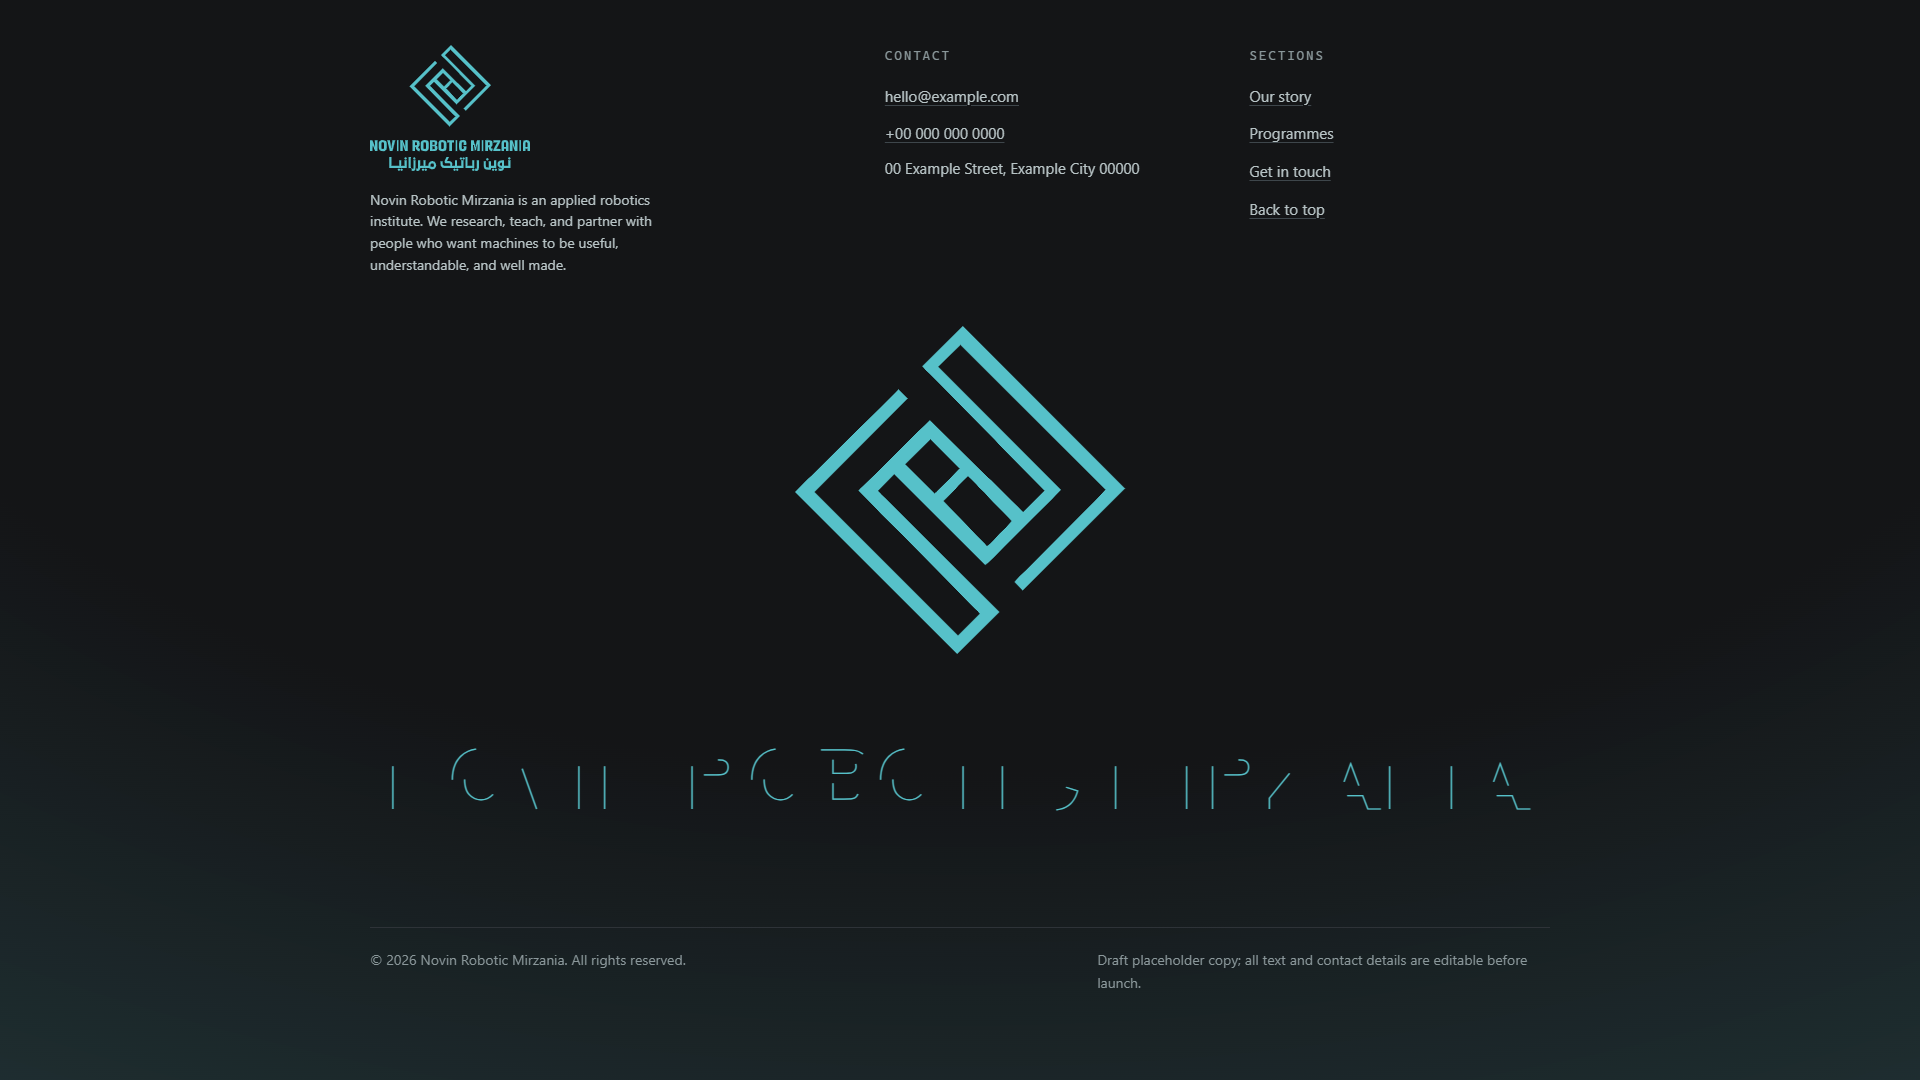
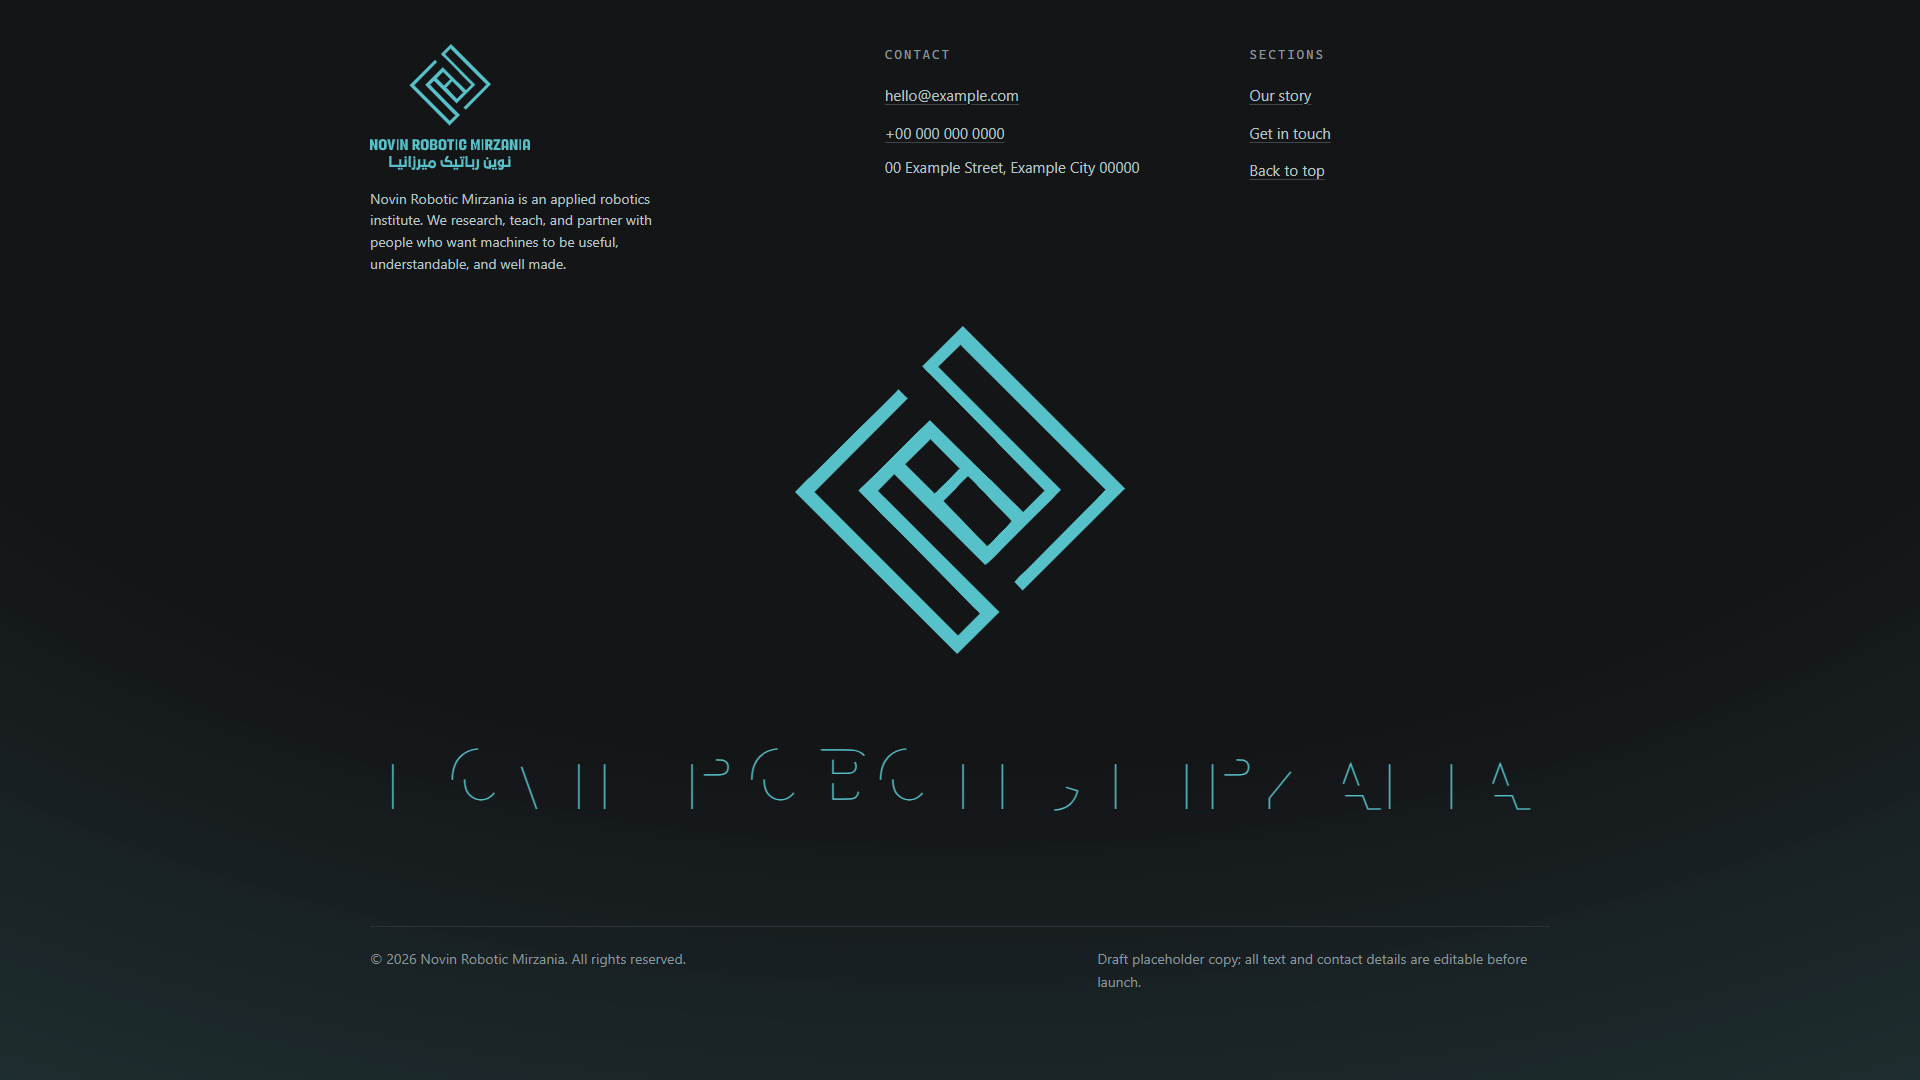
docs: QA evidence for v1.3.6 (revision fafbb3a; programmes section removed)

diff --git a/qa/qa-report.md b/qa/qa-report.md
@@ -1,6 +1,6 @@
-# QA report — logo-sequence site (v1.3.3 round)
+# QA report — logo-sequence site (v1.3.6 round)
 
-- Revision: `fe38c43` · generated 2026-09-30T13:27:49.851Z
+- Revision: `fafbb3a` · generated 2026-09-30T14:22:03.091Z
 - Environment: win32 x64 · Node v22.22.0 · puppeteer-core 25.12.0
 - Chrome: Chrome/154.0.8037.58 · Edge: Edg/154.0.4258.37
 - Method: puppeteer-core only; local CSP-mirror server; deterministic states via `?qa=`;
@@ -12,9 +12,8 @@
 | id | check | status | value | threshold | evidence |
 |----|-------|--------|-------|-----------|----------|
 | a | nav absence (9 cells) | PASS | headers 0; no fixed/sticky outside hero; nav only in footer | zero nav outside footer | evidence/a/nav-sweep.json |
-| a | old placeholder elements removed from DOM | PASS | {"copy":0,"indicator":0,"hint":0,"rmMark":0} body=["A.skip-link","NOSCRIPT","SECTION#story.hero","SECTION#programmes.gallery","FOOTER#footer.footer"] | copy/indicator/hint/rm-mark counts all 0; body = skip-link + noscript + hero + programmes + footer | evidence/a/nav-sweep.json |
-| a | programmes: 4–7 photo slots present, ordered hero→programmes→footer | PASS | {"cards":6,"ordered":true} | gallery between hero and footer; 4–7 cards each with img/alt/title/text | evidence/a/nav-sweep.json |
-| a | source audit: no dead placeholders; gallery assets present | PASS | {"deadRefs":0,"galleryRefs":6,"slots":6,"missing":0,"imgFiles":6} | no hero__copy/hint/indicator/rm-mark refs; every gallery slot points at an existing file | evidence/a/removal-audit.txt |
+| a | old placeholder elements removed from DOM (incl. the programmes section) | PASS | {"copy":0,"indicator":0,"hint":0,"rmMark":0} galleryGone=0 body=["A.skip-link","NOSCRIPT","SECTION#story.hero","FOOTER#footer.footer"] | copy/indicator/hint/rm-mark/gallery counts all 0; body = skip-link + noscript + hero + footer | evidence/a/nav-sweep.json |
+| a | source audit: no dead placeholders; programmes assets removed | PASS | {"deadRefs":0,"imgFiles":0} | no hero__copy/hint/indicator/rm-mark/gallery refs in shipped files; assets/img empty | evidence/a/removal-audit.txt |
 | b | intro: big wordmark centered on dark gray, unclipped | PASS | [{"vp":"1280x800","dx":0,"dy":0,"frameW":979.7,"expectedW":979.7,"sizeOk":true,"notClipped":true,"bg":"rgb(23, 25, 27)","spin":0,"markOpacity":0,"wordOpacity":1,"sideOp":0},{"vp":"1440x900","dx":0,"dy":0,"frameW":1102.2,"expectedW":1102.2,"sizeOk":true,"notClipped":true,"bg":"rgb(23, 25, 27)","spin":0,"markOpacity":0," | hero size == min(92vw, 96vh*1.2757, 1600px) ±3; centered ±8px; fully in viewport; side copy hidden; bg rgb(23,25,27) | evidence/a/intro-1440x900.png<br>evidence/a/intro-audit.json |
 | c | motion trace (60 steps) | PASS | {"mapErr":0,"monoSpin":true,"spinEnd":360,"maxSpinStep":34.1,"maxPosStep":435.2,"orderOk":true,"opacityOk":true,"cEndTx":-719.22,"dEndTy":354.87} | clockwise monotonic to 360±0.5; spin in place; side-copy hold with centred mark; left travel on the middle line; enlarged state at exact 45-degree pose; dock travel right+down; swap opacity sum=1 | evidence/b/motion-trace.json |
 | c | settle / no-oscillation / idle-stability | PASS | {"settleOk":true,"p":0.41667,"mapP":0.41667,"reversals":0,"idleDelta":0} | p==mapping after stop (0.002); <=2 reversals; idle delta 0 | — |
@@ -24,16 +23,16 @@
 | c | mid-sweep: the big mark crosses the middle, fully on screen | PASS | {"mcx":722.1,"spin":315} | at p=0.77 the big mark sits between the edges, centred vertically | evidence/b/sweep-1440x900.png |
 | c | side copy: text beside the small symbol, then gone before the growth | PASS | [{"vp":"1440x900","centered":true,"visible":true,"noGhost":true,"noOverlap":true,"mcx":718.9,"mcy":450,"rMark":162.9,"ok":true,"goneAt07":[0,0]},{"vp":"390x844","centered":true,"visible":true,"noGhost":true,"noOverlap":true,"mcx":194.7,"mcy":422,"rMark":50.7,"ok":true,"goneAt07":[0,0]}] | both blocks fully visible + clear of the mark at p=0.5; centred mark; wordmark fully swapped (no ghost); hidden by p=0.7 | evidence/b/sidecopy-audit.json<br>evidence/b/sidetext-1440x900.png |
 | d | hero end: mark docked upright just above the bottom edge | PASS | [{"vp":"1440x900","center":[721.1,715],"expY":715,"spin":360,"overflow":0,"ok":true},{"vp":"834x1112","center":[418.1,927],"expY":927,"spin":360,"overflow":0,"ok":true},{"vp":"390x844","center":[195.7,726.5],"expY":726.5,"spin":360,"overflow":0,"ok":true}] | centre == (vw/2, vh−dockR−20) ±6; spin 360±1.5; fully visible; no overflow | evidence/b/herodock-audit.json |
-| d | landing: centred in the footer landing area, clear of columns and signature | PASS | [{"vp":"1280x800","center":[640,278.3],"bandCy":278.3,"bandCx":640,"frac":1,"size":330,"dockD":330,"gapAbove":25,"gapBelow":33,"centered":true,"sizeOk":true,"upright":true,"overflow":0,"ok":true},{"vp":"1440x900","center":[720,360.8],"bandCy":360.8,"bandCx":720,"frac":1,"size":330,"dockD":330,"gapAbove":25,"gapBelow":3 | centre == (viewport/2, landing-area centre) ±6/±8px; visible fraction >= 0.9; clear of the columns and the signature (>=6px both); size == configured ±6; no rotation; overflow 0 | evidence/d/dock-audit.json<br>evidence/b/dock-1440x900.png |
-| d | landing stability: scroll + resize | PASS | {"yMax":4556,"yAfter":4556,"drift":0,"resizeOk":true,"resizeBackOk":true} | no scroll past max; drift 0; stays centred after resize ±8px | evidence/d/stability.json |
+| d | landing: centred in the footer landing area, clear of columns and signature | PASS | [{"vp":"1280x800","center":[640,278.1],"bandCy":278.1,"bandCx":640,"frac":1,"size":330,"dockD":330,"gapAbove":25,"gapBelow":33,"centered":true,"sizeOk":true,"upright":true,"overflow":0,"ok":true},{"vp":"1440x900","center":[720,360.1],"bandCy":360.1,"bandCx":720,"frac":1,"size":330,"dockD":330,"gapAbove":25,"gapBelow":3 | centre == (viewport/2, landing-area centre) ±6/±8px; visible fraction >= 0.9; clear of the columns and the signature (>=6px both); size == configured ±6; no rotation; overflow 0 | evidence/d/dock-audit.json<br>evidence/b/dock-1440x900.png |
+| d | landing stability: scroll + resize | PASS | {"yMax":3192,"yAfter":3192,"drift":0,"resizeOk":true,"resizeBackOk":true} | no scroll past max; drift 0; stays centred after resize ±8px | evidence/d/stability.json |
 | e | enlarged mark rendered from vector (SVG) source | PASS | {"markSrc":"http://localhost:8123/assets/logo/logo-mark.svg","dpr":2} | mark displayed from .svg (scale-free) | evidence/e/mark-zoom-2x.png |
 | f | single content source (no duplicates) | PASS | duplicates outside content.js: 0 | 0 occurrences of sample strings in shipped files | evidence/f/content-audit.txt |
-| f | footer: links land + contact/legal intact | PASS | {"landings":[{"label":"Our story","href":"#story","top":0},{"label":"Programmes","href":"#programmes","top":0},{"label":"Get in touch","href":"#contact","top":-0.3},{"label":"Back to top","href":"#top","top":0}],"contactCheck":{"emailText":true,"emailHref":true,"phoneHref":true,"address":true,"legal":true}} | 4 links land within viewport; mailto/tel formats; texts == content | evidence/f/footer-links.json<br>evidence/f/footer-1440x900.png |
+| f | footer: links land + contact/legal intact | PASS | {"landings":[{"label":"Our story","href":"#story","top":0},{"label":"Get in touch","href":"#contact","top":0},{"label":"Back to top","href":"#top","top":0}],"contactCheck":{"emailText":true,"emailHref":true,"phoneHref":true,"address":true,"legal":true}} | 3 links land within viewport; mailto/tel formats; texts == content | evidence/f/footer-links.json<br>evidence/f/footer-1440x900.png |
 | f | footer signature: draw-in completes + hover reveal reacts | PASS | {"layers":3,"content":"NOVIN ROBOTIC MIRZANIA","drawn":true,"dashAfter":0,"hoverClass":true,"echoOp":0.7,"maskCx":"20.04%"} | 3 text layers with the brand name; stroke draw-in finishes (dashoffset 0); hover shows the echo (0.7) and moves the reveal mask | evidence/f/signature-audit.json<br>evidence/f/footer-signature-1440x900.png |
-| g | responsive: no overflow at max size and landing; gallery columns adapt | PASS | [{"vp":"360x740","ok":true,"overflow@0.84":0,"overflow@1":0,"galleryCols":1},{"vp":"768x1024","ok":true,"overflow@0.84":0,"overflow@1":0,"galleryCols":2},{"vp":"1280x800","ok":true,"overflow@0.84":0,"overflow@1":0,"galleryCols":3},{"vp":"1440x900","ok":true,"overflow@0.84":0,"overflow@1":0,"galleryCols":3},{"vp":"1920x | scrollWidth overflow <= 1px in both states; no horizontal scrollbar; gallery grid 3/2/1 columns by width | evidence/g/responsive.json |
-| h | reduced motion: static logo + signature fully rendered, gallery static | PASS | {"top":{"x":203.34375,"y":36,"r":1236.65625,"b":846},"end":{"x":555,"y":196.7890625,"r":885,"b":524.8046875},"bandCy":360.8,"frameComputed":"none","side":"none","sigDraw":"0px","gallery":{"count":6,"op":1,"imgOK":true,"inView":true}} | no transforms; no side copy; wordmark fully in viewport; landing centred in the landing area; signature drawn statically (no dash offset); gallery cards visible without reveal effects | evidence/h/reduced-1440-full.png |
-| i | perf: zero errors, local-only | PASS | {"consoleErrors":0,"pageErrors":0,"failed":0,"hosts":{"localhost:8123":11},"resources":11,"transferBytes":71175} | 0 errors; localhost-only; no failed requests | evidence/i/perf.json |
-| i | CLS + frame cadence (headless) | INFO | {"cls":0,"frameMedianMs":6.9,"frameP95Ms":7.1} | informational only | — |
+| g | responsive: no overflow at max size and landing | PASS | [{"vp":"360x740","ok":true,"overflow@0.84":0,"overflow@1":0},{"vp":"768x1024","ok":true,"overflow@0.84":0,"overflow@1":0},{"vp":"1280x800","ok":true,"overflow@0.84":0,"overflow@1":0},{"vp":"1440x900","ok":true,"overflow@0.84":0,"overflow@1":0},{"vp":"1920x1080","ok":true,"overflow@0.84":0,"overflow@1":0},{"vp":"2560x10 | scrollWidth overflow <= 1px in both states; no horizontal scrollbar | evidence/g/responsive.json |
+| h | reduced motion: static logo + signature fully rendered | PASS | {"top":{"x":203.34375,"y":36,"r":1236.65625,"b":846},"end":{"x":555,"y":196.1328125,"r":885,"b":524.1484375},"bandCy":360.1,"frameComputed":"none","side":"none","sigDraw":"0px"} | no transforms; no side copy; wordmark fully in viewport; landing centred in the landing area; signature drawn statically (no dash offset) | evidence/h/reduced-1440-full.png |
+| i | perf: zero errors, local-only | PASS | {"consoleErrors":0,"pageErrors":0,"failed":0,"hosts":{"localhost:8123":5},"resources":5,"transferBytes":57751} | 0 errors; localhost-only; no failed requests | evidence/i/perf.json |
+| i | CLS + frame cadence (headless) | INFO | {"cls":0,"frameMedianMs":6.9,"frameP95Ms":7} | informational only | — |
 | j | resize mid-sequence | PASS | {"p":[0.55,0.61875],"spin":192.1219889322917,"expSpin":192.1} | state re-renders consistently after resize | — |
 | j | fling (wheel bursts) | PASS | {"p":1,"mapP":1} | end state == mapping ±0.002 | — |
 | j | reload mid-sequence | PASS | {"scrollY":1080,"p":0.5,"mapP":0.5} | deterministic restore | — |
@@ -42,13 +41,13 @@
 
 ## Summary
 
-- PASS: 27
+- PASS: 26
 - FAIL: 0
 - INFO: 1
 - OBSERVED: 0
 - NOT PERFORMED: 0
 
-## Evidence files (116)
+## Evidence files (142)
 
 - `qa/evidence/a/intro-1280x800.png`
 - `qa/evidence/a/intro-1440x900.png`
@@ -80,6 +79,12 @@
 - `qa/evidence/b/pin-0-1440x900.png`
 - `qa/evidence/b/pin-0-390x844.png`
 - `qa/evidence/b/pin-0-834x1112.png`
+- `qa/evidence/b/pin-0.06-1440x900.png`
+- `qa/evidence/b/pin-0.06-390x844.png`
+- `qa/evidence/b/pin-0.06-834x1112.png`
+- `qa/evidence/b/pin-0.19-1440x900.png`
+- `qa/evidence/b/pin-0.19-390x844.png`
+- `qa/evidence/b/pin-0.19-834x1112.png`
 - `qa/evidence/b/pin-0.25-1440x900.png`
 - `qa/evidence/b/pin-0.25-390x844.png`
 - `qa/evidence/b/pin-0.25-834x1112.png`
@@ -89,9 +94,18 @@
 - `qa/evidence/b/pin-0.5-1440x900.png`
 - `qa/evidence/b/pin-0.5-390x844.png`
 - `qa/evidence/b/pin-0.5-834x1112.png`
+- `qa/evidence/b/pin-0.56-1440x900.png`
+- `qa/evidence/b/pin-0.56-390x844.png`
+- `qa/evidence/b/pin-0.56-834x1112.png`
+- `qa/evidence/b/pin-0.66-1440x900.png`
+- `qa/evidence/b/pin-0.66-390x844.png`
+- `qa/evidence/b/pin-0.66-834x1112.png`
 - `qa/evidence/b/pin-0.7-1440x900.png`
 - `qa/evidence/b/pin-0.7-390x844.png`
 - `qa/evidence/b/pin-0.7-834x1112.png`
+- `qa/evidence/b/pin-0.78-1440x900.png`
+- `qa/evidence/b/pin-0.78-390x844.png`
+- `qa/evidence/b/pin-0.78-834x1112.png`
 - `qa/evidence/b/pin-0.8-1440x900.png`
 - `qa/evidence/b/pin-0.8-390x844.png`
 - `qa/evidence/b/pin-0.8-834x1112.png`
@@ -101,6 +115,9 @@
 - `qa/evidence/b/pin-0.86-1440x900.png`
 - `qa/evidence/b/pin-0.86-390x844.png`
 - `qa/evidence/b/pin-0.86-834x1112.png`
+- `qa/evidence/b/pin-0.92-1440x900.png`
+- `qa/evidence/b/pin-0.92-390x844.png`
+- `qa/evidence/b/pin-0.92-834x1112.png`
 - `qa/evidence/b/pin-0.93-1440x900.png`
 - `qa/evidence/b/pin-0.93-390x844.png`
 - `qa/evidence/b/pin-0.93-834x1112.png`
@@ -154,11 +171,16 @@
 - `qa/evidence/rollback/dist-v1.3.0.zip`
 - `qa/evidence/rollback/dist-v1.3.1.zip`
 - `qa/evidence/rollback/dist-v1.3.2.zip`
+- `qa/evidence/rollback/dist-v1.3.3.zip`
+- `qa/evidence/rollback/dist-v1.3.4.zip`
+- `qa/evidence/rollback/dist-v1.3.5.zip`
 - `qa/evidence/rollback/tag-show-v1.1.0.txt`
 - `qa/evidence/rollback/tag-show-v1.2.0.txt`
 - `qa/evidence/rollback/tag-show-v1.3.0.txt`
 - `qa/evidence/rollback/tag-show-v1.3.1.txt`
 - `qa/evidence/rollback/tag-show-v1.3.2.txt`
+- `qa/evidence/rollback/tag-show-v1.3.3.txt`
+- `qa/evidence/rollback/tag-show-v1.3.4.txt`
 - `qa/evidence/rollback/tag-show.txt`
 - `qa/evidence/rollback/v1.0.0-intro.png`
 - `qa/evidence/rollback/v1.1.0-intro.png`
@@ -166,3 +188,6 @@
 - `qa/evidence/rollback/v1.3.0-intro.png`
 - `qa/evidence/rollback/v1.3.1-bigstate.png`
 - `qa/evidence/rollback/v1.3.2-footer.png`
+- `qa/evidence/rollback/v1.3.3-bigright.png`
+- `qa/evidence/rollback/v1.3.4-intro.png`
+- `qa/evidence/rollback/v1.3.5-intro.png`

diff --git a/qa/qa-log.md b/qa/qa-log.md
@@ -1,10 +1,10 @@
-# QA log â€” environment, commands, honesty notes (v1.3.3)
+# QA log — environment, commands, honesty notes (v1.3.6)
 
 ## Environment
 
-- OS: win32 x64 Â· Node: v22.22.0 Â· puppeteer-core: 25.12.0
-- Chrome: Chrome/154.0.8037.58 Â· Edge: Edg/154.0.4258.37
-- Revision: fe38c43 Â· 2026-09-30T13:27:49.851Z
+- OS: win32 x64 · Node: v22.22.0 · puppeteer-core: 25.12.0
+- Chrome: Chrome/154.0.8037.58 · Edge: Edg/154.0.4258.37
+- Revision: fafbb3a · 2026-09-30T14:22:03.091Z
 
 ## How to re-run
 
@@ -18,13 +18,13 @@ node qa/shot.mjs chrome <url> <w> <h> out.png [qa]
 
 | Browser | Status | Notes |
 |---------|--------|-------|
-| Chrome | EXECUTED â€” full suite | via puppeteer-core |
-| Edge | EXECUTED â€” subset | same Chromium engine as Chrome â€” not independent coverage |
-| Firefox | NOT PERFORMED â€” not installed | inspection-based notes only |
-| Safari / iOS Safari | NOT PERFORMED â€” cannot run on Windows | inspection-based notes only |
-| Android Chrome (device) | NOT PERFORMED â€” no device | viewport emulation only |
+| Chrome | EXECUTED — full suite | via puppeteer-core |
+| Edge | EXECUTED — subset | same Chromium engine as Chrome — not independent coverage |
+| Firefox | NOT PERFORMED — not installed | inspection-based notes only |
+| Safari / iOS Safari | NOT PERFORMED — cannot run on Windows | inspection-based notes only |
+| Android Chrome (device) | NOT PERFORMED — no device | viewport emulation only |
 
-Reduced-motion checks used DevTools emulation (`emulateMediaFeatures`) â€” labeled, not a real OS test.
+Reduced-motion checks used DevTools emulation (`emulateMediaFeatures`) — labeled, not a real OS test.
 
 ## Code-inspection risk notes (NOT test results)
 
@@ -35,10 +35,6 @@ Reduced-motion checks used DevTools emulation (`emulateMediaFeatures`) â€” 
 - scroll-driven animations API: absent (safe).
 - overflow: clip: used (Safari 16+; hidden fallback present on the sticky).
 
-## Revert (Ctrl+Z) — executed evidence (v1.3.5)
-- User request: undo the v1.3.4 reorder. The tree was restored to the v1.3.3 content via git checkout v1.3.3 -- . and committed.
-- Revert commit: 0b899ba; annotated tag v1.3.5 -> 0b899bafbf950c10df126e5b102b2386f23c15bc.
-- The reverted tree equals the v1.3.3 released tree (which passed its own full QA: 27 PASS / 0 FAIL at revision fe38c43).
-- Worktree smoke: clean worktree of v1.3.5 served on port 8081; screenshot qa/evidence/rollback/v1.3.5-intro.png (1440x900; shot exit=0).
-- Archive: qa/evidence/rollback/dist-v1.3.5.zip; SHA-256: 8CB48B4330F7C5482C7460B1021EEF9B6DDAC96B8061D074287E13929D869E01
-- v1.3.4 remains available in history and as its own archive (dist-v1.3.4.zip) if this needs to be flipped back.
+## Rollback drill
+
+See `qa/evidence/rollback/` (v1.3.6 + kept v1.3.5 / v1.3.4 / v1.3.3 / v1.3.2 / v1.3.1 / v1.3.0 / v1.2.0 / v1.1.0 / v1.0.0).
